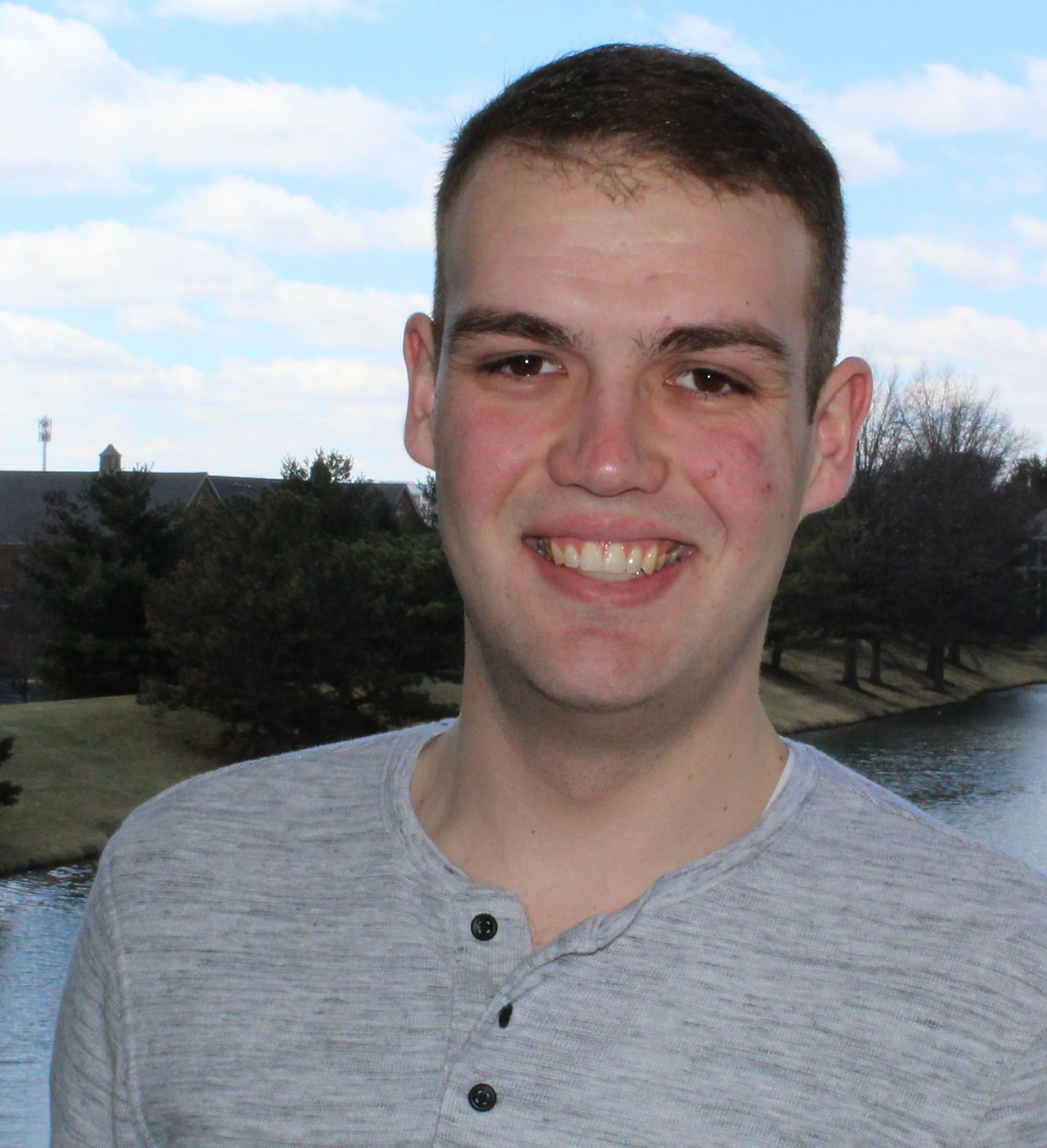
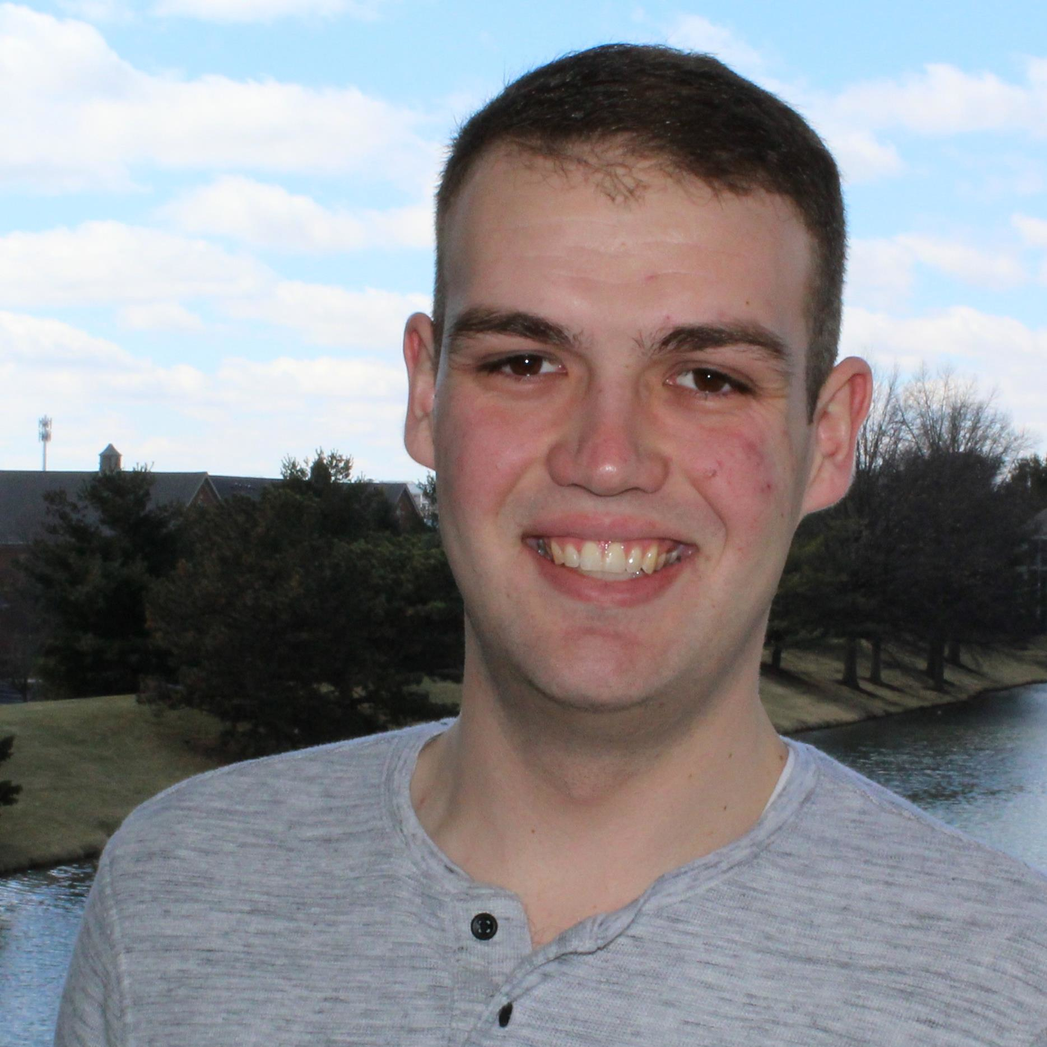
fix author profile

diff --git a/_sass/common/components/_card.scss b/_sass/common/components/_card.scss
@@ -1,0 +1,103 @@
+.card {
+  max-width: 18rem;
+  border-radius: map-get($base, border-radius);
+  @include box-shadow();
+  @include transition(box-shadow map-get($animation, duration) map-get($animation, timing-function));
+  & > :first-child {
+    // Customization
+    // border-top-left-radius: map-get($base, border-radius);
+    // border-top-right-radius: map-get($base, border-radius);
+  }
+  & > :last-child {
+    border-bottom-right-radius: map-get($base, border-radius);
+    border-bottom-left-radius: map-get($base, border-radius);
+  }
+}
+
+.cell {
+  & > .card {
+    max-width: unset;
+  }
+}
+
+.card__content {
+  padding: map-get($spacers, 2) map-get($spacers, 3);
+}
+
+.card__header, .card__header > a {
+  @include link-colors($text-color-d, $main-color-1);
+}
+
+.card__image {
+  position: relative;
+  width: 100%;
+  & > img {
+    display: block;
+    width: 100%;
+    height: auto;
+    border-radius: inherit;
+  }
+  & > .overlay {
+    position: absolute;
+    width: 100%;
+    max-height: 100%;
+    padding: map-get($spacers, 2);
+    a {
+      text-decoration: none !important;
+    }
+  }
+  & > .overlay, & > .overlay--top {
+    top: 0;
+    bottom: auto;
+    border-top-left-radius: inherit;
+    border-top-right-radius: inherit;
+    border-bottom-right-radius: 0;
+    border-bottom-left-radius: 0;
+  }
+  & > .overlay--bottom {
+    top: auto;
+    bottom: 0;
+    border-top-left-radius: 0;
+    border-top-right-radius: 0;
+    border-bottom-right-radius: inherit;
+    border-bottom-left-radius: inherit;
+  }
+  & > .overlay--full {
+    top: 0;
+    bottom: 0;
+  }
+  & > .overlay, & > .overlay--dark {
+    @extend .text--dark;
+    background-color: rgba(#000, .4);
+  }
+  & > .overlay--light {
+    @extend .text--light;
+    background: rgba(#fff, .4);
+  }
+}
+
+.card--clickable {
+  cursor: pointer;
+  @include hover() {
+    @include box-shadow(2);
+    .card__image {
+      & > img {
+        height: inherit;
+      }
+    }
+  }
+  @include transition(map-get($clickable, transition));
+}
+
+.card--flat {
+  @include box-shadow(0);
+  .card__image {
+    & > img {
+      border-radius: map-get($base, border-radius);
+    }
+  }
+  .card__content {
+    padding-top: 0;
+    padding-left: 0;
+  }
+}

diff --git a/_sass/components/_author-profile.scss b/_sass/components/_author-profile.scss
@@ -1,0 +1,26 @@
+.author-profile {
+  max-width: 25rem;
+  padding: map-get($spacers, 2) map-get($spacers, 3);
+  margin: map-get($spacers, 4) 0;
+  font-size: map-get($base, font-size-sm);
+  background-color: $text-background-color;
+  @include media-breakpoint-down(md) {
+    text-align: center;
+  }
+}
+.author-profile__avatar {
+  width: 5rem;
+  height: 5rem;
+  // margin-top: map-get($spacers, 2); customization
+  border-radius: 50%;
+}
+.author-profile__name {
+  font-size: map-get($base, font-size-lg);
+  font-weight: map-get($base, font-weight-bold);
+  a {
+    @include link-colors($text-color, $main-color-1);
+  }
+}
+.author-profile__links {
+  @include overflow(auto);
+}
